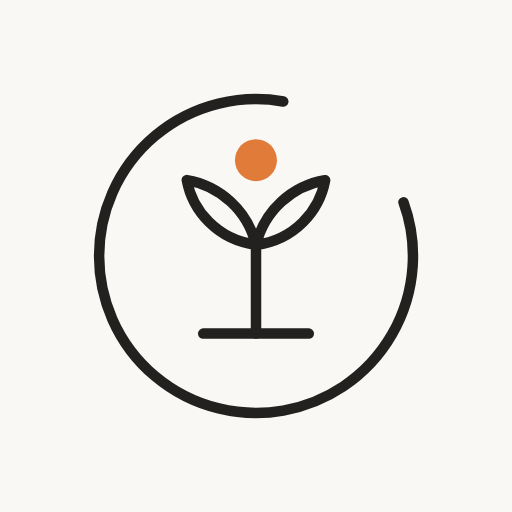
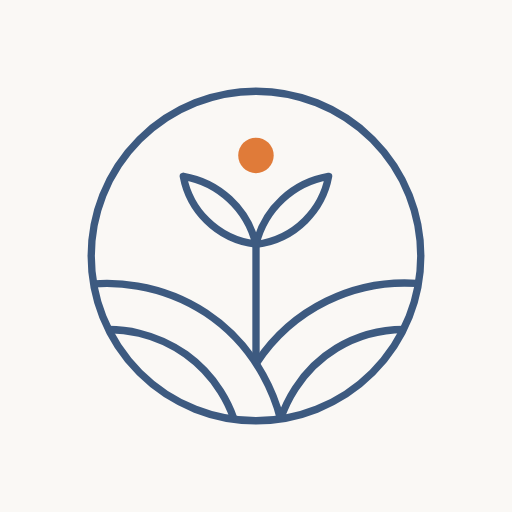
Ikigai-Signet in Rituals-Farben, leere Hinweisbox ausgeblendet
Claude-Session: https://claude.ai/code/session_013YW19F9YQXA8WgK4CUaQs8

diff --git a/app.js b/app.js
@@ -28,7 +28,7 @@
     leaf: svg('<path d="M5 19C5 10 11 5 19 5c0 8-5 14-14 14z"/><path d="M5 19l7-7"/>'),
     calPlus: svg('<rect x="3" y="5" width="18" height="16" rx="2"/><path d="M3 10h18M8 3v4M16 3v4M12 13v5M9.5 15.5h5"/>')
   };
-  var SIGNET = '<svg viewBox="0 0 73.14 73.14" aria-hidden="true"><g fill="none" stroke="currentColor" stroke-width="2.4" stroke-linecap="round" stroke-linejoin="round"><path d="M70.28,24.30 A35.87,35.87 0 1 1 42.80,1.25"/><path d="M36.57,32.81v21.5"/><path d="M24.5,54.31h24.14"/><path d="M52.37,19.25c-1.72.29-6.07,1.27-10.04,4.95-4.06,3.75-5.35,8.13-5.76,9.82,1.56-.19,6.49-.99,10.71-5.17,3.75-3.72,4.79-7.98,5.09-9.6Z"/><path d="M20.75,19.22c1.72.29,6.07,1.27,10.04,4.95,4.06,3.75,5.35,8.13,5.76,9.82-1.56-.19-6.49-.99-10.71-5.17-3.75-3.72-4.79-7.98-5.09-9.6Z"/></g><circle cx="36.56" cy="14.67" r="4.6" fill="var(--r)"/></svg>';
+  var SIGNET = '<svg viewBox="0 0 73.14 73.14" aria-hidden="true"><g fill="none" stroke="var(--p)" stroke-width="2" stroke-miterlimit="10"><circle cx="36.57" cy="36.57" r="35.87"/><path d="M1.28,42.64c3.36-.25,13.91-.61,24.35,6.28,12.17,8.03,15.56,20.24,16.28,23.13"/><path d="M4.46,52.58c2.5,0,9.73.33,16.82,5.4,7.03,5.03,9.68,11.69,10.49,14.06"/><path d="M36.56,60.06c1.89-2.91,6.64-9.36,15.39-13.66,8.45-4.15,16.16-4.1,19.63-3.87"/><path d="M41.91,72.05c.78-2.33,3.75-10.29,12.16-15.4,6.05-3.68,11.92-4.08,14.63-4.09"/><path d="M36.57,32.81v27.25"/><path stroke-linejoin="round" d="M52.37,19.25c-1.72.29-6.07,1.27-10.04,4.95-4.06,3.75-5.35,8.13-5.76,9.82,1.56-.19,6.49-.99,10.71-5.17,3.75-3.72,4.79-7.98,5.09-9.6Z"/><path stroke-linejoin="round" d="M20.75,19.22c1.72.29,6.07,1.27,10.04,4.95,4.06,3.75,5.35,8.13,5.76,9.82-1.56-.19-6.49-.99-10.71-5.17-3.75-3.72-4.79-7.98-5.09-9.6Z"/></g><circle cx="36.56" cy="14.67" r="3.86" fill="var(--r)"/></svg>';
 
   var COLORS = [['orange', 'Orange'], ['red', 'Rot'], ['green', 'Grün'], ['blue', 'Blau'], ['violet', 'Violett'], ['grey', 'Grau']];
   var TYPES = { jn: 'Ja/Nein', zahl: 'Zahl pro Tag', summe: 'Summe im Zeitraum', woche: 'x-mal pro Woche', liste: 'Tages-Checkliste' };

diff --git a/sw.js b/sw.js
@@ -1,6 +1,6 @@
 /* Service Worker: Offline-Cache und Benachrichtigungen.
    Bei jeder Änderung an den App-Dateien VERSION erhöhen, damit Geräte die neue Version laden. */
-var VERSION = 'ikigai-rituals-v1';
+var VERSION = 'ikigai-rituals-v2';
 var SHELL = ['./', 'index.html', 'styles.css', 'app.js', 'config.js', 'manifest.webmanifest', 'icons/icon-192.png', 'icons/icon-512.png', 'icons/apple-touch-icon.png'];
 
 // OneSignal-Push (nur aktiv, wenn in config.js eine App-ID eingetragen ist; schadet sonst nicht)

diff --git a/styles.css b/styles.css
@@ -55,6 +55,7 @@ a { color: var(--p); }
 .stack { display: flex; flex-direction: column; gap: 10px; }
 .grid2 { display: grid; grid-template-columns: repeat(2, minmax(0, 1fr)); gap: 10px; }
 .grid3 { display: grid; grid-template-columns: repeat(3, minmax(0, 1fr)); gap: 8px; }
+[hidden] { display: none !important; }
 .sr { position: absolute; width: 1px; height: 1px; overflow: hidden; clip: rect(0 0 0 0); white-space: nowrap; }
 
 /* top bar */
